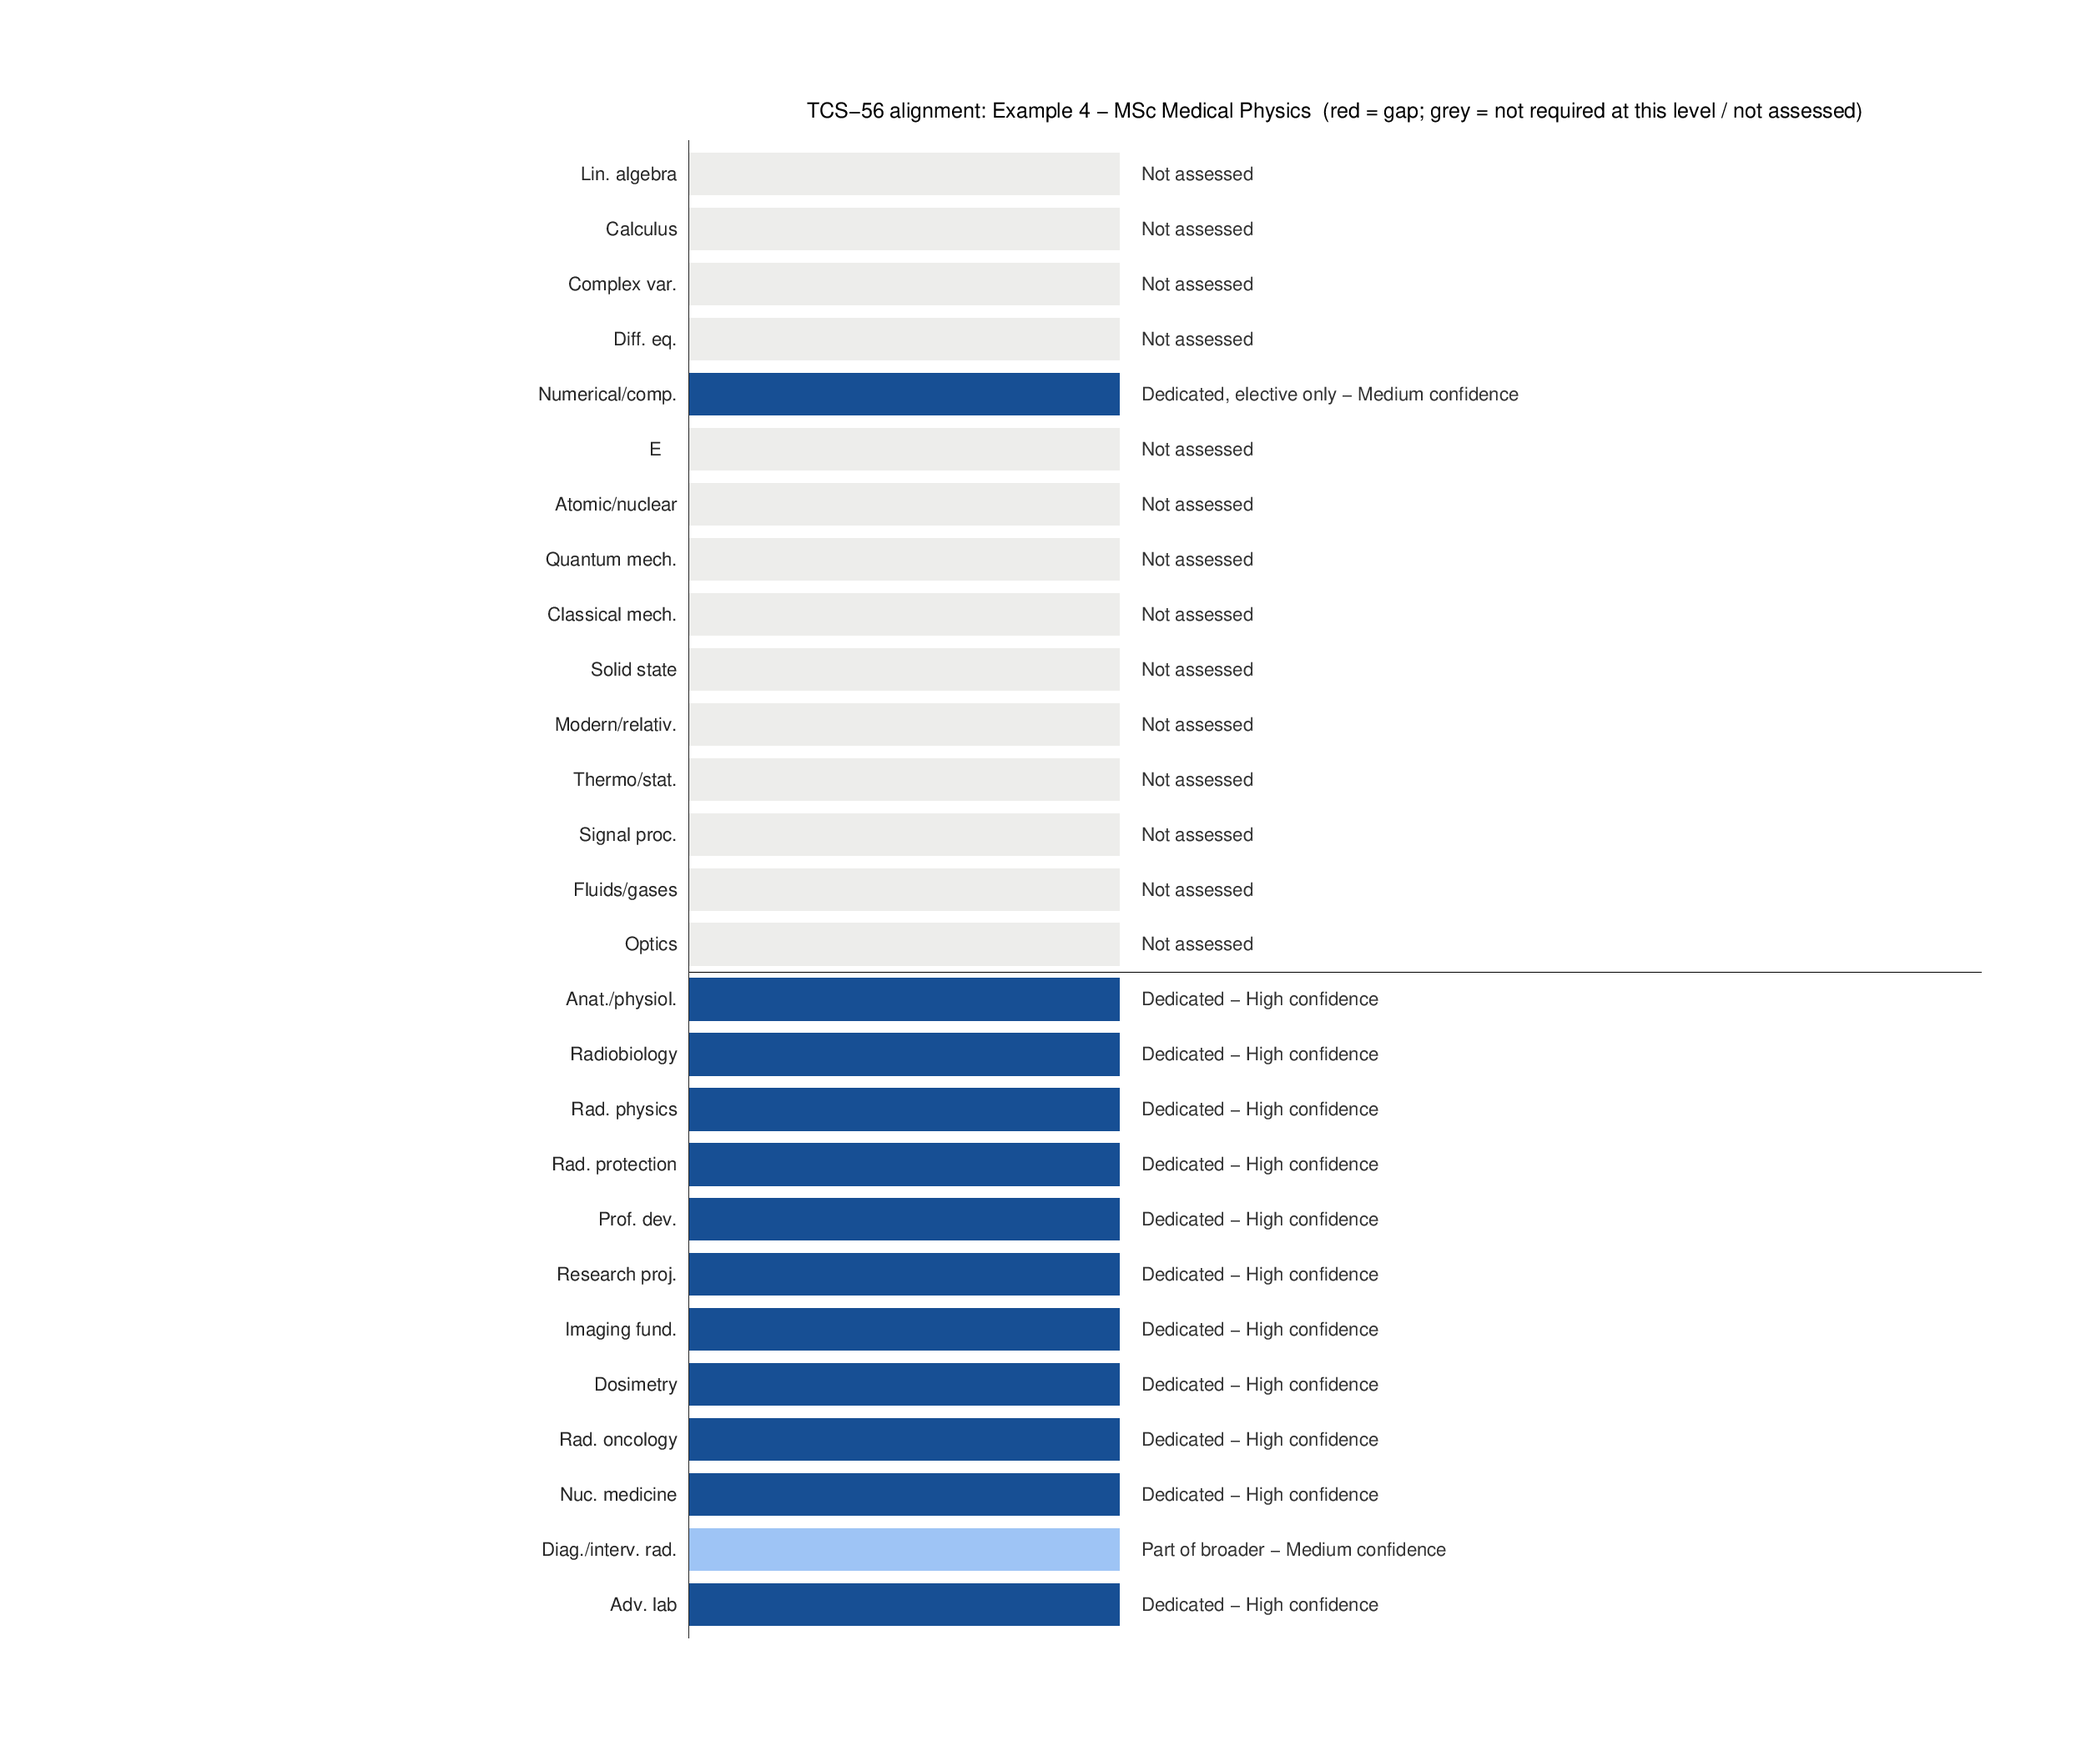
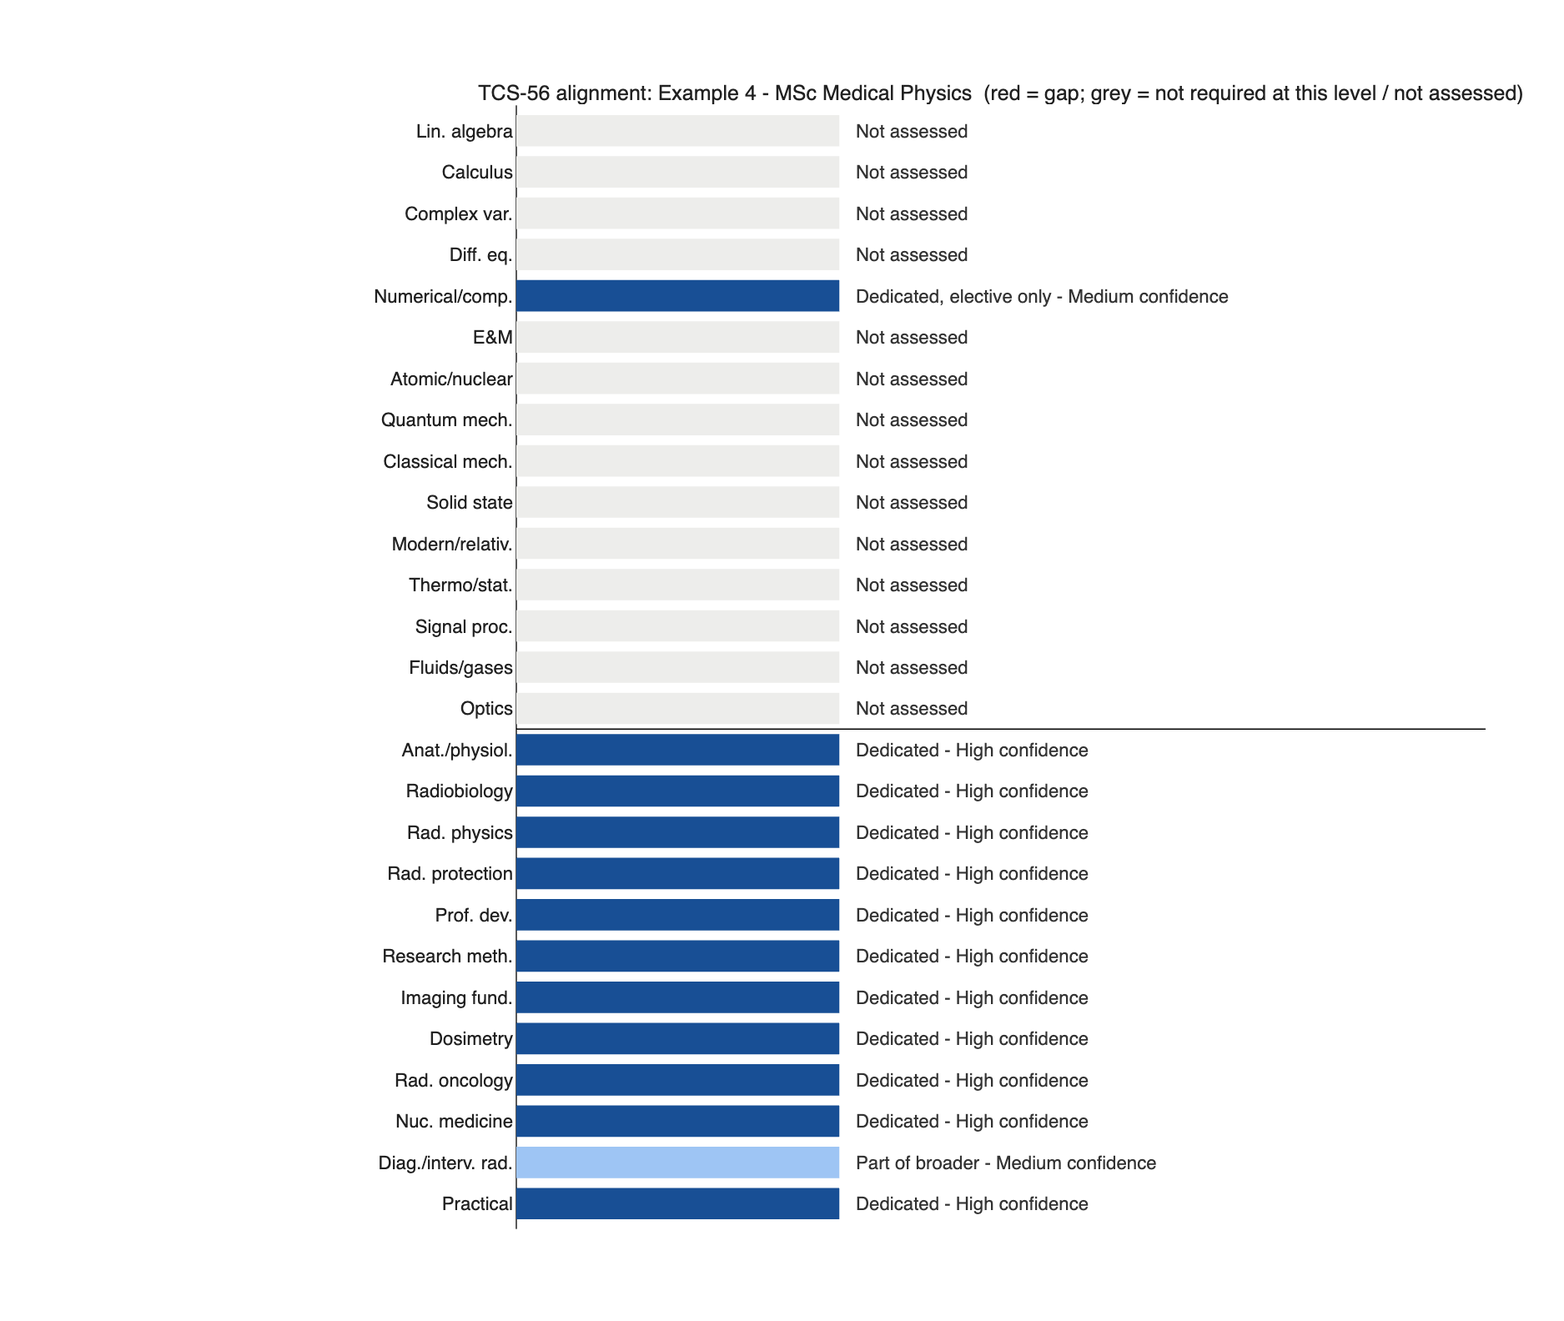
Regenerate example 4 output in MATLAB (TCS-56 item names)
Claude-Session: https://claude.ai/code/session_017GkgYiC1FGVQHbA2DuZDiu

Changed region(s): [[0.2475, 0.0619, 0.9589, 0.928]]

diff --git a/examples/output/ex4/assessment_report.md b/examples/output/ex4/assessment_report.md
@@ -1,6 +1,6 @@
 # TCS-56 alignment: Example 4 - MSc Medical Physics
 
-Level: Master. Input: University (course list). Generated 2026-11-16.
+Level: Master. Input: University (course list). Generated 2026-11-20.
 
 ## Summary
 
@@ -35,13 +35,13 @@ Level: Master. Input: University (course list). Generated 2026-11-16.
 | Radiation Physics | Dedicated; App. A: Part of broader | High | Radiation Physics (High) |  |
 | Radiation Protection | Dedicated; App. A: Part of broader | High | Radiation Protection (High) |  |
 | Professional and Scientific Development | Dedicated; App. A: Part of broader | High | Professional Development in Medical Physics (High) |  |
-| Research Project | Dedicated; App. A: Split | High | Research Project (High) |  |
+| Research Methodology | Dedicated; App. A: Split | High | Research Project (High) |  |
 | Medical Imaging Fundamentals | Dedicated; App. A: Part of broader | High | Medical Imaging Physics (High) |  |
 | Radiation Dosimetry | Dedicated; App. A: Part of broader | High | Radiation Dosimetry (High) |  |
 | Physics of Radiation Oncology | Dedicated; App. A: Dedicated | High | Radiotherapy Physics (High) |  |
 | Physics of Nuclear Medicine | Dedicated; App. A: Part of broader | High | Nuclear Medicine Physics (High) |  |
 | Physics of Diagnostic and Interventional Radiology | Part of broader; App. A: Part of broader | Medium | Medical Imaging Physics (Medium) | Covered inside a broader course; depth is not guaranteed. |
-| Advanced topics laboratory | Dedicated; App. A: Dedicated | High | Medical Physics Laboratory (High) |  |
+| Practical Sessions | Dedicated; App. A: Dedicated | High | Medical Physics Laboratory (High) |  |
 
 ## Gaps
 
